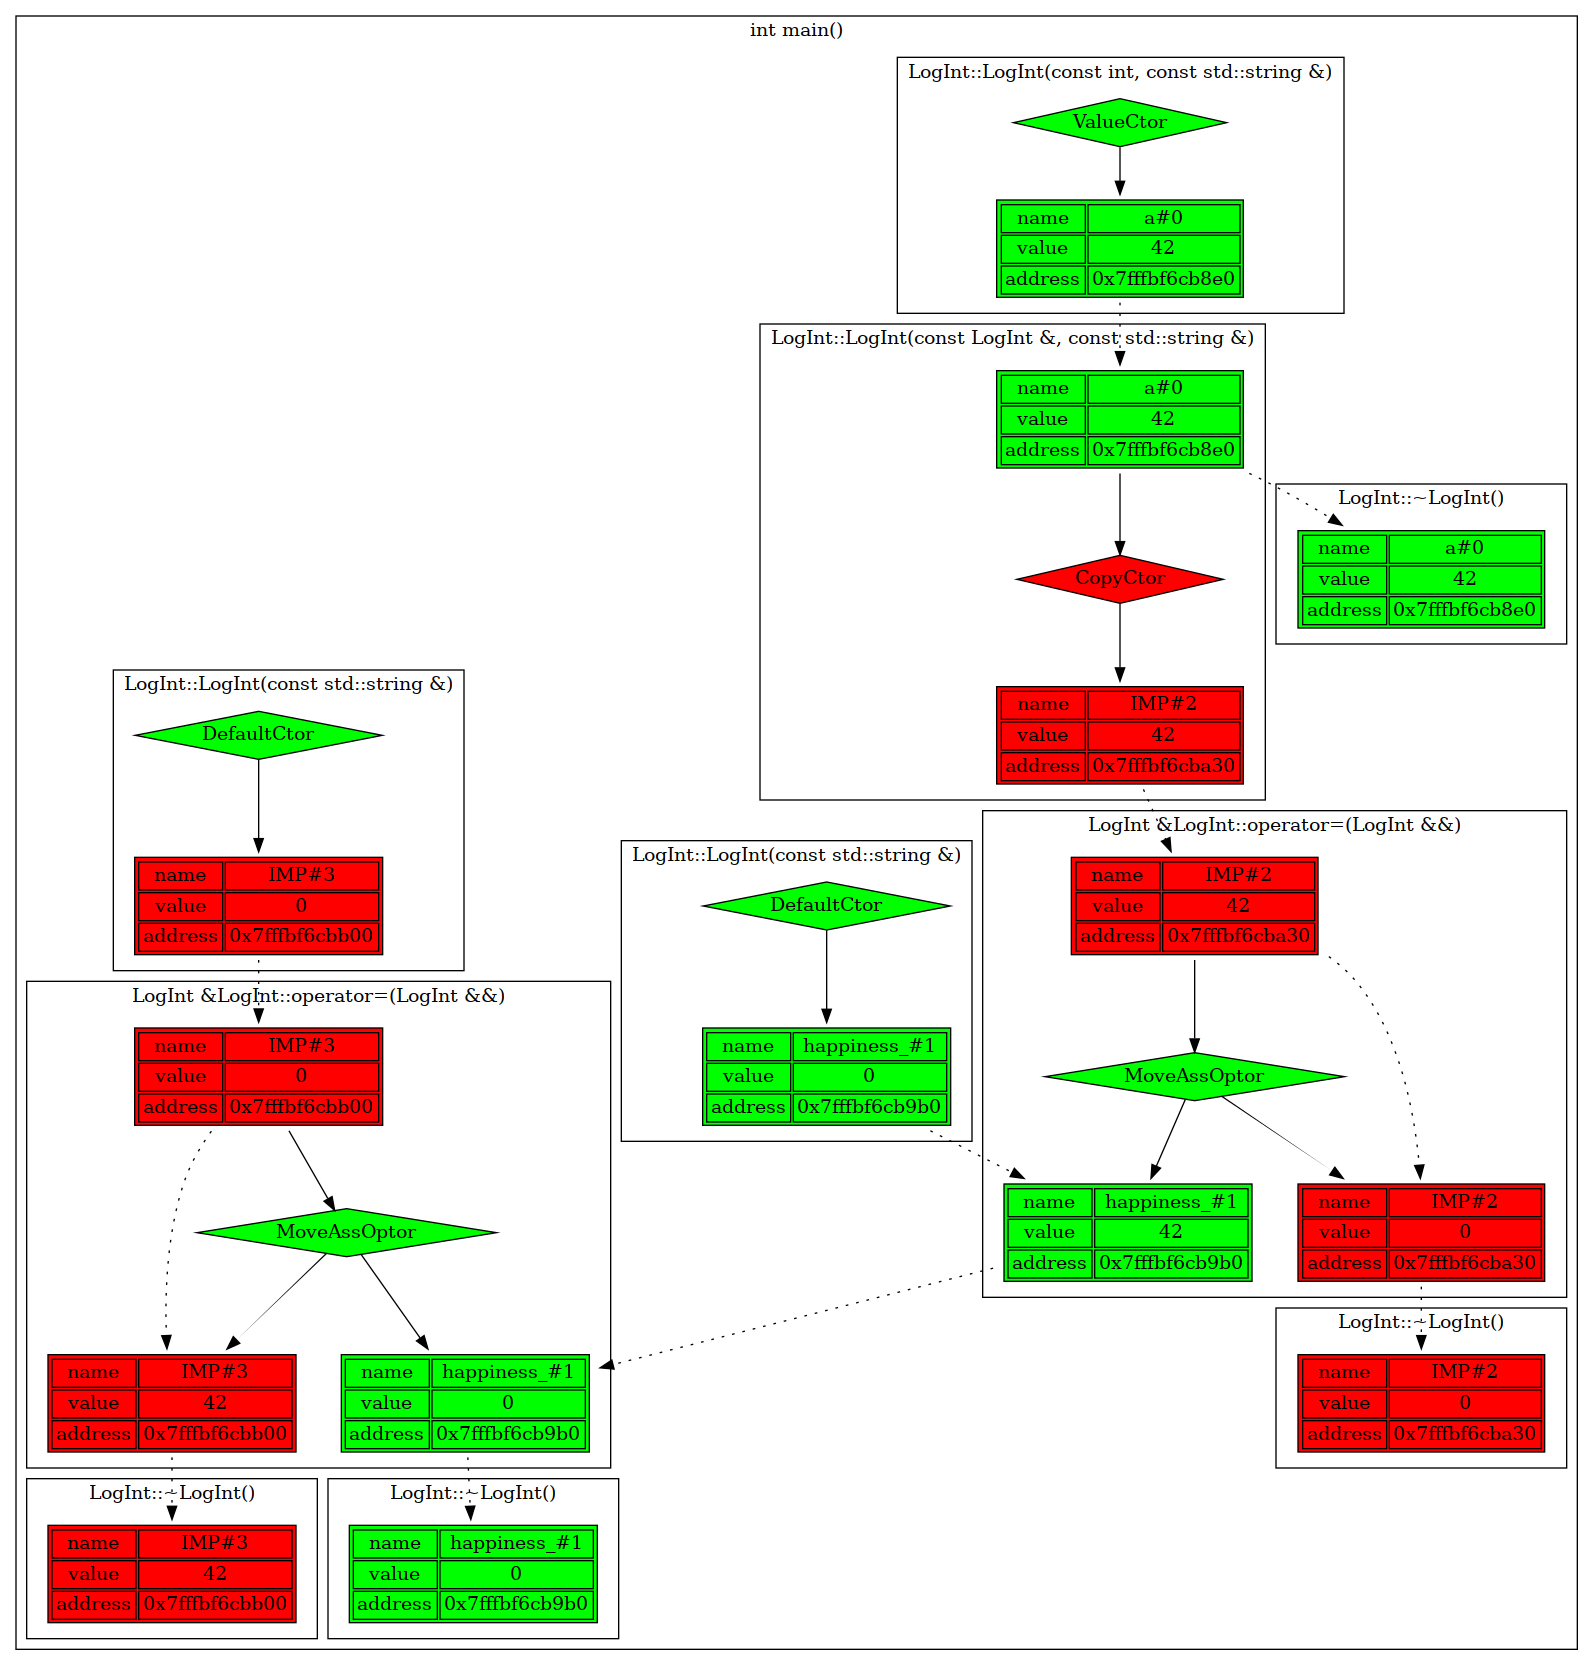
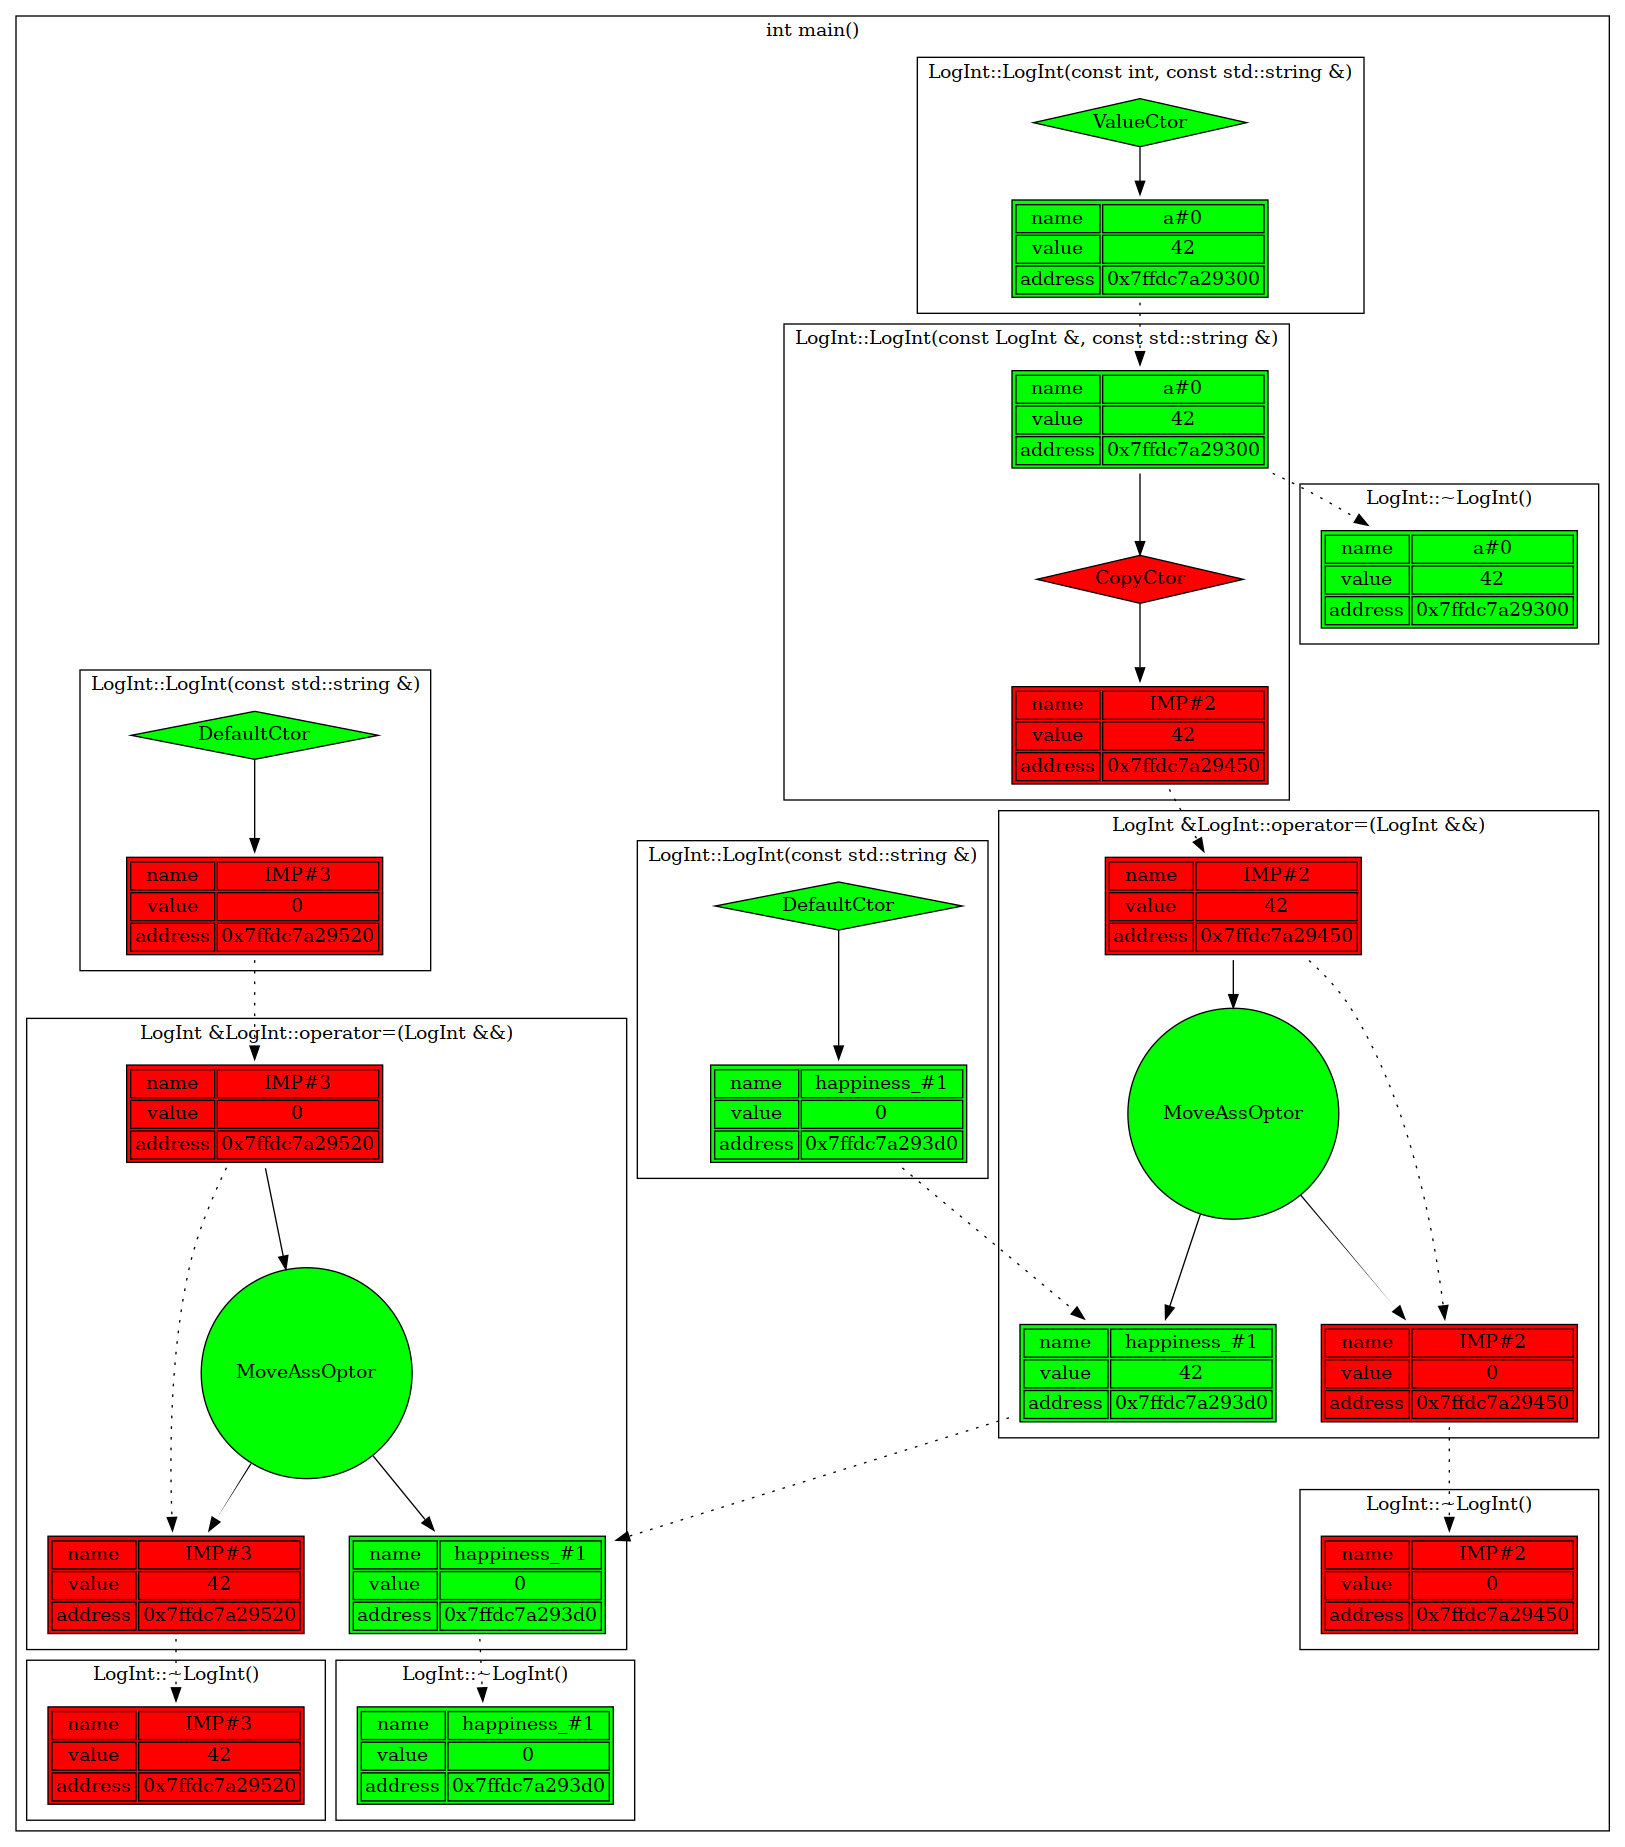
.

Changed region(s): [[0.0, 0.0, 1.0, 0.9994]]

diff --git a/src/gv_logger.cpp b/src/gv_logger.cpp
@@ -64,7 +64,7 @@ void GVLogger::LogAssOptor(const LogInt& dst, const LogInt& src) {
   size_t dst_node_id = NewOccurrence(dst);
   LogElem(dst);
 
-  size_t optor_node_id = LogOptorNode("CopyAssOptor");
+  size_t optor_node_id = LogOptorNode("CopyAssOptor", "red");
 
   LogNodesLink({src_node_id, optor_node_id});
   LogNodesLink({optor_node_id, dst_node_id});
@@ -72,11 +72,11 @@ void GVLogger::LogAssOptor(const LogInt& dst, const LogInt& src) {
 
 size_t GVLogger::LogMoveAssOptorPrefix(const LogInt& src) {
   size_t src_node_id = NewOccurrence(src);
-  size_t ctor_node_id = LogCtorNode("MoveAssOptor", "green");
+  size_t optor_node_id = LogOptorNode("MoveAssOptor", "green");
 
-  LogNodesLink({src_node_id, ctor_node_id});
+  LogNodesLink({src_node_id, optor_node_id});
 
-  return ctor_node_id;
+  return optor_node_id;
 }
 
 void GVLogger::LogMoveAssOptorSuffix(const LogInt& dst, const LogInt& src, const size_t optor_node_id) {
@@ -93,7 +93,7 @@ void GVLogger::LogUnaryOptor(const LogInt& elem, const LogInt& parent, const std
   size_t elem_node_id = NewOccurrence(elem);
   LogElem(elem);
 
-  size_t optor_node_id = LogOptorNode(op);
+  size_t optor_node_id = LogOptorNode(op, "white");
 
   LogNodesLink({parent_node_id, optor_node_id});
   LogNodesLink({optor_node_id, elem_node_id});
@@ -106,7 +106,7 @@ void GVLogger::LogBinaryOptor(const LogInt& elem, const LogInt& parent1, const L
   size_t elem_node_id = NewOccurrence(elem);
   LogElem(elem);
 
-  size_t optor_node_id = LogOptorNode(op);
+  size_t optor_node_id = LogOptorNode(op, "white");
 
   LogNodesLink({parent1_node_id, optor_node_id});
   LogNodesLink({parent2_node_id, optor_node_id});
@@ -117,7 +117,7 @@ void GVLogger::LogBinaryAssOptor(const LogInt& elem, const LogInt& other, const 
   size_t other_node_id = NewOccurrence(other);
   size_t elem_node_id = NewOccurrence(elem);
 
-  size_t optor_node_id = LogOptorNode(op);
+  size_t optor_node_id = LogOptorNode(op, "white");
 
   LogNodesLink({other_node_id, optor_node_id});
   LogNodesLink({optor_node_id, elem_node_id});
@@ -170,9 +170,9 @@ size_t GVLogger::LogCtorNode(const std::string& name, const std::string& color) 
   return ctor_node_id;
 }
 
-size_t GVLogger::LogOptorNode(const std::string& name) {
+size_t GVLogger::LogOptorNode(const std::string& name, const std::string& color) {
   size_t node_id = FetchAddId();
-  fprintf(log_file_, "%zu [label = \"%s\" shape = \"circle\"]\n", node_id, name.c_str());
+  fprintf(log_file_, "%zu [style = filled label = \"%s\" shape = \"circle\" fillcolor = \"%s\"]\n", node_id, name.c_str(), color.c_str());
   return node_id;
 }
 

diff --git a/include/gv_logger.hpp b/include/gv_logger.hpp
@@ -46,7 +46,7 @@ class GVLogger: public ILogger {
 
   void LogNodesLink(const Edge& edge);
 
-  size_t LogOptorNode(const std::string& name);
+  size_t LogOptorNode(const std::string& name, const std::string& color);
   size_t LogCtorNode(const std::string& name, const std::string& color);
 
   void LogShift() override;
